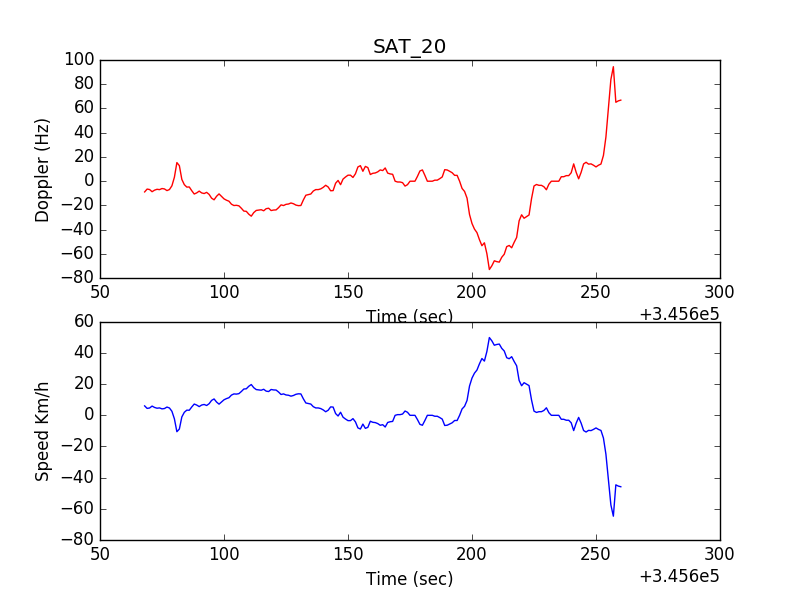
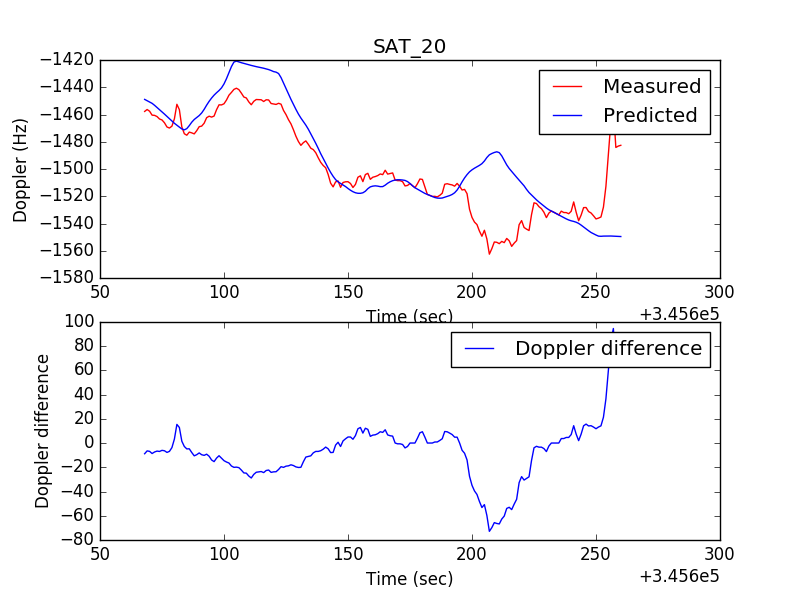
plot doppler and difference

diff --git a/process.py b/process.py
@@ -97,16 +97,19 @@ for i in dopplers:
         #tdiff = tm[0] - x[0]
         #tm = [z - tdiff for z in tm]
         print(i, x[0],tm[0],len(x),len(tm))
-        plt.plot(x,dop_diff,'r-')
+        plt.plot(x,y,'r-',x,z,'b-')
         plt.xlabel('Time (sec)')
         plt.ylabel('Doppler (Hz)')
+        plt.legend(['Measured','Predicted'])
         plt.subplot(212)
         #plt.plot(tm,df,'b-')
-        plt.plot(x,los_speed,'b-')
+        plt.plot(x,dop_diff,'b-')
         plt.xlabel('Time (sec)')
-        plt.ylabel('Speed Km/h')
+        plt.ylabel('Doppler difference')
+        plt.legend(['Doppler difference'])
         plt.savefig('satellite_' + str(i) +'.png')
+
         plt.close()
-        plt.plot(x,y,'r',x,z,'b')
-        plt.legend(['measured','predicted'])
-        plt.savefig('satellite_' + str(i) +'_abs_' + '.png')
+        #plt.plot(x,y,'r',x,z,'b')
+        #plt.legend(['measured','predicted'])
+        #plt.savefig('satellite_' + str(i) +'_abs_' + '.png')
